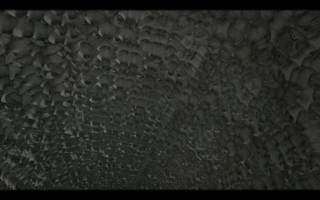
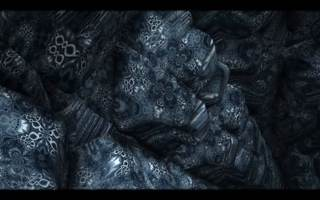
Catalogue frames: 3D lab with the world filter, slice, PolarTunnelBoxes with windows

diff --git a/docs/Catalog/Katalog.md b/docs/Catalog/Katalog.md
@@ -813,7 +813,7 @@ CHAIN3DOCTAGYROID: a raymarched world built from a chain of continuous 3D space 
 
 `Scene2D/Chain3DPolarTunnelBoxes.frag` · type=normal · mood=psychedelic,energetic · complexity=4
 
-CHAIN3DPOLARTUNNELBOXES: a raymarched world built from a chain of continuous 3D space transforms -- a tunnel whose wall is a mirrored ring of blocks, repeated along the flight. We fly slowly through it; the surfaces are textured with the photograph read through a 2D transform chain of its own (triplanar), lit and fogged. Every stage is continuous, so the structure morphs without jumps. Endless, mirrorable. Audio Reac…
+CHAIN3DPOLARTUNNELBOXES: a raymarched world built from a chain of continuous 3D space transforms -- a tunnel whose wall is a mirrored ring of blocks, repeated along the flight, in a shell with rows of round windows onto a far wall (17.10.2026: the smooth shell filled the picture). We fly slowly through it; the surfaces are textured with the photograph read through a 2D transform chain of its own (triplanar), lit and …
 
 ![Chain3DPolarTunnelBoxes ruhig (t=8)](img/Chain3DPolarTunnelBoxes_A.jpg) ![Chain3DPolarTunnelBoxes ruhig (t=16)](img/Chain3DPolarTunnelBoxes_B.jpg) ![Chain3DPolarTunnelBoxes audio-heiß (t=21)](img/Chain3DPolarTunnelBoxes_C.jpg)
 
